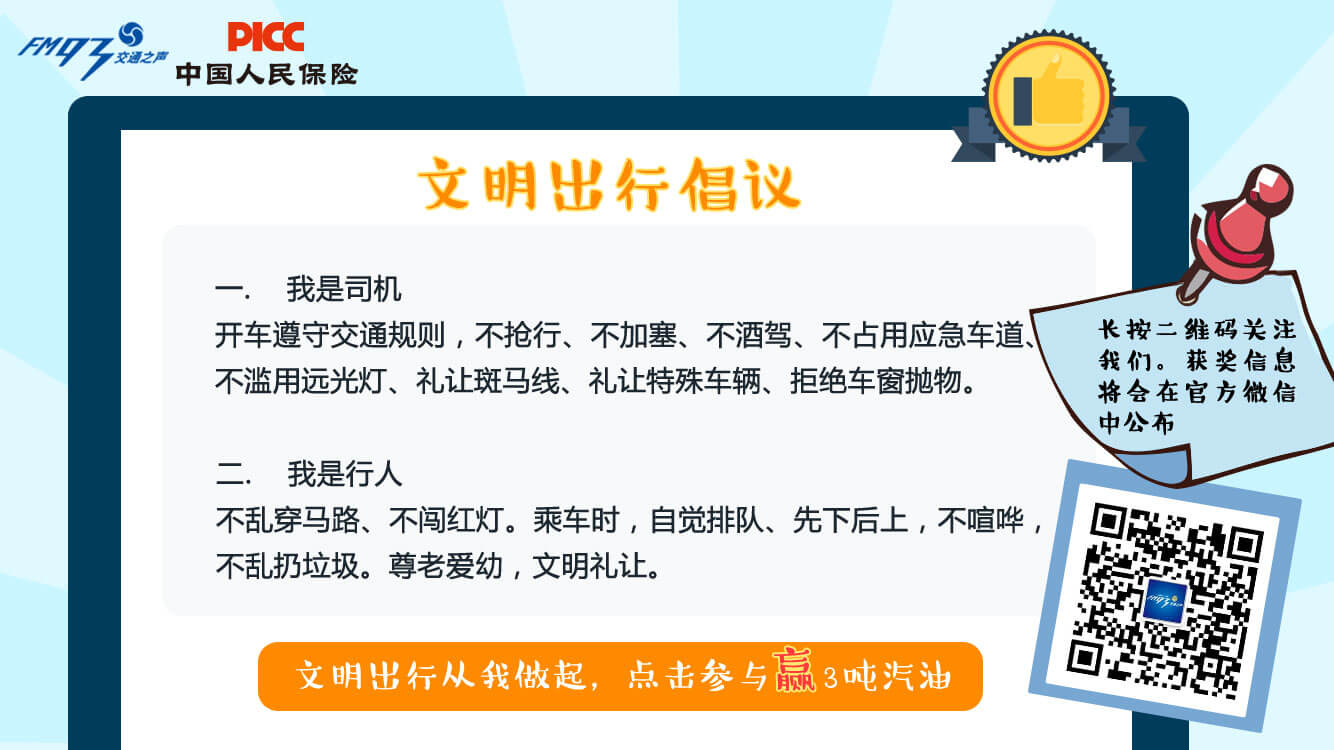
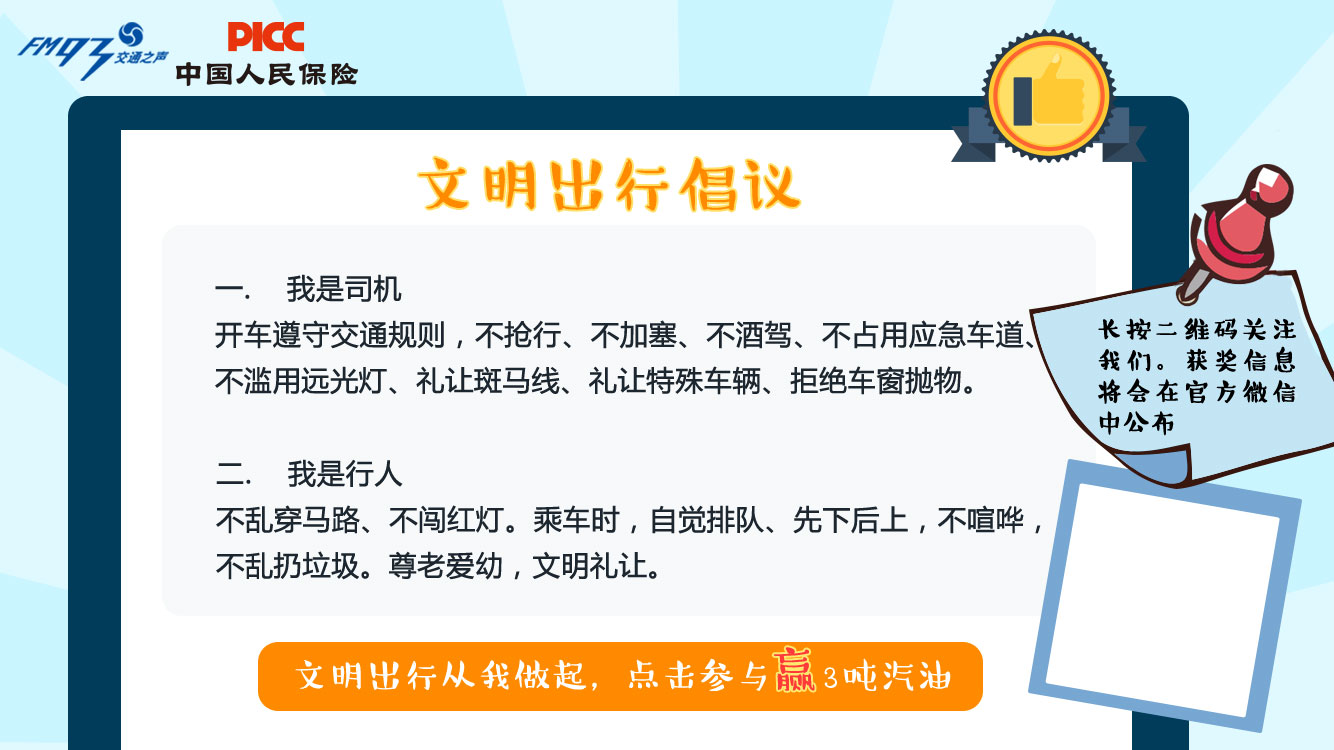
细节调整0614

diff --git a/media/js/carWidget.js b/media/js/carWidget.js
@@ -371,47 +371,47 @@ carWidge.prototype.loadingPart5 = function() { //限速
     _self.resetIt();
     showshine("fast",500,1500,1000);
     showshine("slow",500,1500,2500);
-    _self.loadingSene(".mod_five,.mod_road_Two","a_bounceInLeft,a_bounceInRight,a_bounceInDown,a_flipInX","bounceInLeft,bounceInRight,bounceInDown,flipInX","0,0,0,0","0,0,0,0");
-    _self.setting.start_nb = 2;//限速进来默认第二档。提示超速。根据用户操作扣分；
-    _self.setting.element.attr("src",_self.setting.picArray[_self.setting.start_nb]);//路面第2档
-    $(".road_left_part img").attr("src",_self.leftArray[_self.setting.start_nb]);//路面第2档
-    $(".road_right_part img").attr("src",_self.rightArray[_self.setting.start_nb]);//路面第2档
-
-    $(".infoTxt").css({"background": "url('media/images/txt11.png') no-repeat","background-size":"100% 100%"}).removeClass("bounceOutUp").removeClass("dn").addClass("bounceInUp");
-    var slowCarPartTime3 = setTimeout(function(){
-        $(".infoTxt").removeClass("bounceInUp").addClass("dn");
-        window.clearTimeout(slowCarPartTime3);
-    },4000);
-
-    $(".fast").one("click",function(){
-        $(".infoTxt").css({"background": "url('media/images/txt11.png') no-repeat","background-size":"100% 100%"}).removeClass("bounceOutUp").removeClass("dn").addClass("bounceInUp");
-        var slowCarPartTime = setTimeout(function(){
-            $(".infoTxt").removeClass("bounceInUp").addClass("dn");
-            window.clearTimeout(slowCarPartTime);
+    _self.loadingSene(".mod_five,.mod_road_Two","a_bounceInLeft,a_bounceInRight,a_bounceInDown,a_flipInX","bounceInLeft,bounceInRight,bounceInDown,flipInX","0,0,0,0","0,0,0,0",function(){
+        var loadingToFive= setTimeout(function(){
             _self.loadingPartsix();
-        },4000);
-        _self.offEvent();
-        _self.bindEvent();
+            window.clearTimeout(loadingToFive);
+        },8000);
     });
-
-
-    $(".slow").one("click",function(){
-        $(".infoTxt").css({"background": "url('media/images/txt07.png') no-repeat","background-size":"100% 100%"}).removeClass("bounceOutUp").removeClass("dn").addClass("bounceInUp");
-        var slowCarPartTime2 = setTimeout(function(){
-            $(".infoTxt").removeClass("bounceInUp").addClass("dn");
-            window.clearTimeout(slowCarPartTime2);
-            _self.loadingPartsix();
-        },4000);
-        _self.offEvent();
-        _self.bindEvent();
-    });
-
-    //function(){
-    //    var loadingToFive= setTimeout(function(){
+    //_self.setting.start_nb = 2;//限速进来默认第二档。提示超速。根据用户操作扣分；
+    //_self.setting.element.attr("src",_self.setting.picArray[_self.setting.start_nb]);//路面第2档
+    //$(".road_left_part img").attr("src",_self.leftArray[_self.setting.start_nb]);//路面第2档
+    //$(".road_right_part img").attr("src",_self.rightArray[_self.setting.start_nb]);//路面第2档
+    //
+    //$(".infoTxt").css({"background": "url('media/images/txt11.png') no-repeat","background-size":"100% 100%"}).removeClass("bounceOutUp").removeClass("dn").addClass("bounceInUp");
+    //var slowCarPartTime3 = setTimeout(function(){
+    //    $(".infoTxt").removeClass("bounceInUp").addClass("dn");
+    //    window.clearTimeout(slowCarPartTime3);
+    //},4000);
+    //
+    //$(".fast").one("click",function(){
+    //    $(".infoTxt").css({"background": "url('media/images/txt11.png') no-repeat","background-size":"100% 100%"}).removeClass("bounceOutUp").removeClass("dn").addClass("bounceInUp");
+    //    var slowCarPartTime = setTimeout(function(){
+    //        $(".infoTxt").removeClass("bounceInUp").addClass("dn");
+    //        window.clearTimeout(slowCarPartTime);
     //        _self.loadingPartsix();
-    //        window.clearTimeout(loadingToFive);
-    //    },8000);
-    //}
+    //    },4000);
+    //    _self.offEvent();
+    //    _self.bindEvent();
+    //});
+    //
+    //
+    //$(".slow").one("click",function(){
+    //    $(".infoTxt").css({"background": "url('media/images/txt07.png') no-repeat","background-size":"100% 100%"}).removeClass("bounceOutUp").removeClass("dn").addClass("bounceInUp");
+    //    var slowCarPartTime2 = setTimeout(function(){
+    //        $(".infoTxt").removeClass("bounceInUp").addClass("dn");
+    //        window.clearTimeout(slowCarPartTime2);
+    //        _self.loadingPartsix();
+    //    },4000);
+    //    _self.offEvent();
+    //    _self.bindEvent();
+    //});
+
+
 }
 
 carWidge.prototype.loadingPartsix = function() { //老婆电话
@@ -600,7 +600,7 @@ carWidge.prototype.loadingPart9 = function() { //结果页
             var mobile = $("input[name='Tel']").val();
             $.ajax({
                 type: 'POST',
-                url: 'http://res.jiconglin.com/jt93ask/Scoreinfocomplete?username='+userNmae+'&mobile='+mobile+'&license_plate='+license_plate+'&source='+lastsource,
+                url: 'http://res.jiconglin.com/jt93ask/Scoreinfocomplete?username='+userNmae+'&mobile='+mobile+'&license_plate='+license_plate+'&source=1',
                 dataType: 'jsonp',
                 success: function () {
                     alert("提交成功，信息已收到!");

diff --git a/media/css/Index.css b/media/css/Index.css
@@ -9,7 +9,8 @@ body{font-size:62.5%;}
 .game_start{ background: url("../images/start_pic.jpg") no-repeat; background-size:100% 100%; z-index: 998;}
 .start_button{width:29.3%; height: 17.8%; display:block; position: absolute; bottom:11.8%; left:36.2%;}
 .agreement{ background: url("../images/agreement.jpg") no-repeat; background-size:100% 100%; z-index: 1111;}
-.icon_agree{width:54.1%; height:9.2%; display:block; position: absolute; bottom:5.2%; left:19.3%;cursor: pointer;}
+.icon_agree{width:54.1%; height:9.2%; display:block; position: absolute; bottom:5.2%; left:19.3%;cursor: pointer; }
+.shareImg{width:14.85%; height:26.53%; display:block; position: absolute; bottom:6.3%; right:5.3%;cursor: pointer;transform:rotate(9.8deg);  -moz-transform:rotate(9.8deg);-webkit-transform:rotate(9.8deg);}
 .mod_result,.shareBox,.submitBox{ position:fixed; width: 100%; height: 100%; top: 0; left:0; bottom:0; right:0; z-index: 1100; background: url("../images/result.jpg"); background-size:100% 100%;}
 .shareBox{ background: url("../images/share.png"); background-size:100% 100%;}
 .submitBox{position:relative; background: url("../images/submit.png"); background-size:100% 100%;}

diff --git a/index.html b/index.html
@@ -26,7 +26,7 @@
 </div>
 <div class="fakeloader"><img class="v_h" src="media/images/loading.gif" /></div>
 
-<div class="agreement dn"><a class="icon_agree" href="javascript:;"></a></div>
+<div class="agreement"><a class="icon_agree" href="javascript:;"></a><img class="shareImg" src="media/images/ewm.jpg" /></div>
 
 <div class="game_start"><a class="start_button" href="javascript:;"></a></div>
 

diff --git a/media/js/Index.js b/media/js/Index.js
@@ -41,7 +41,7 @@ $(function(){
 
     $(".start_button").on("click",function(){
         $(".game_start").fadeOut(500);
-        //kkk.introduce();
-        kkk.loadingPart5();
+        kkk.introduce();
+        //kkk.loadingPart5();
     });
 });
